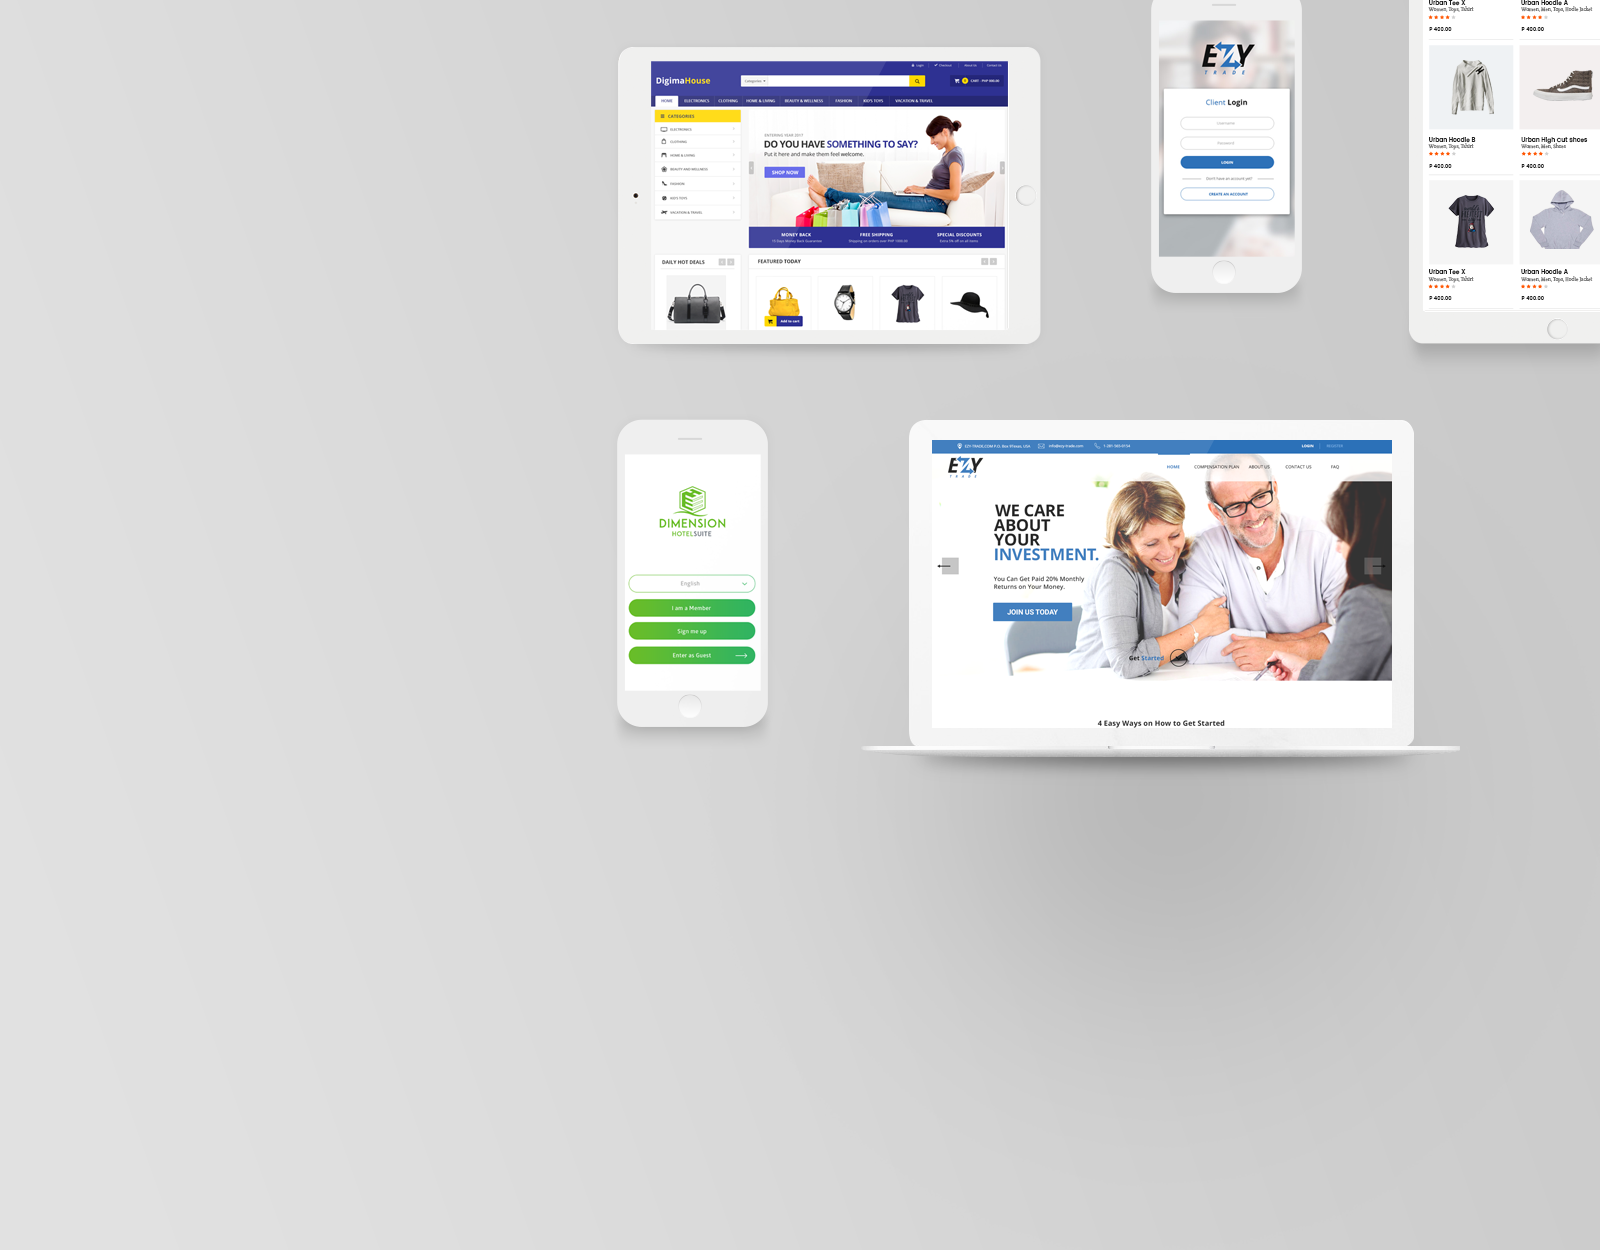
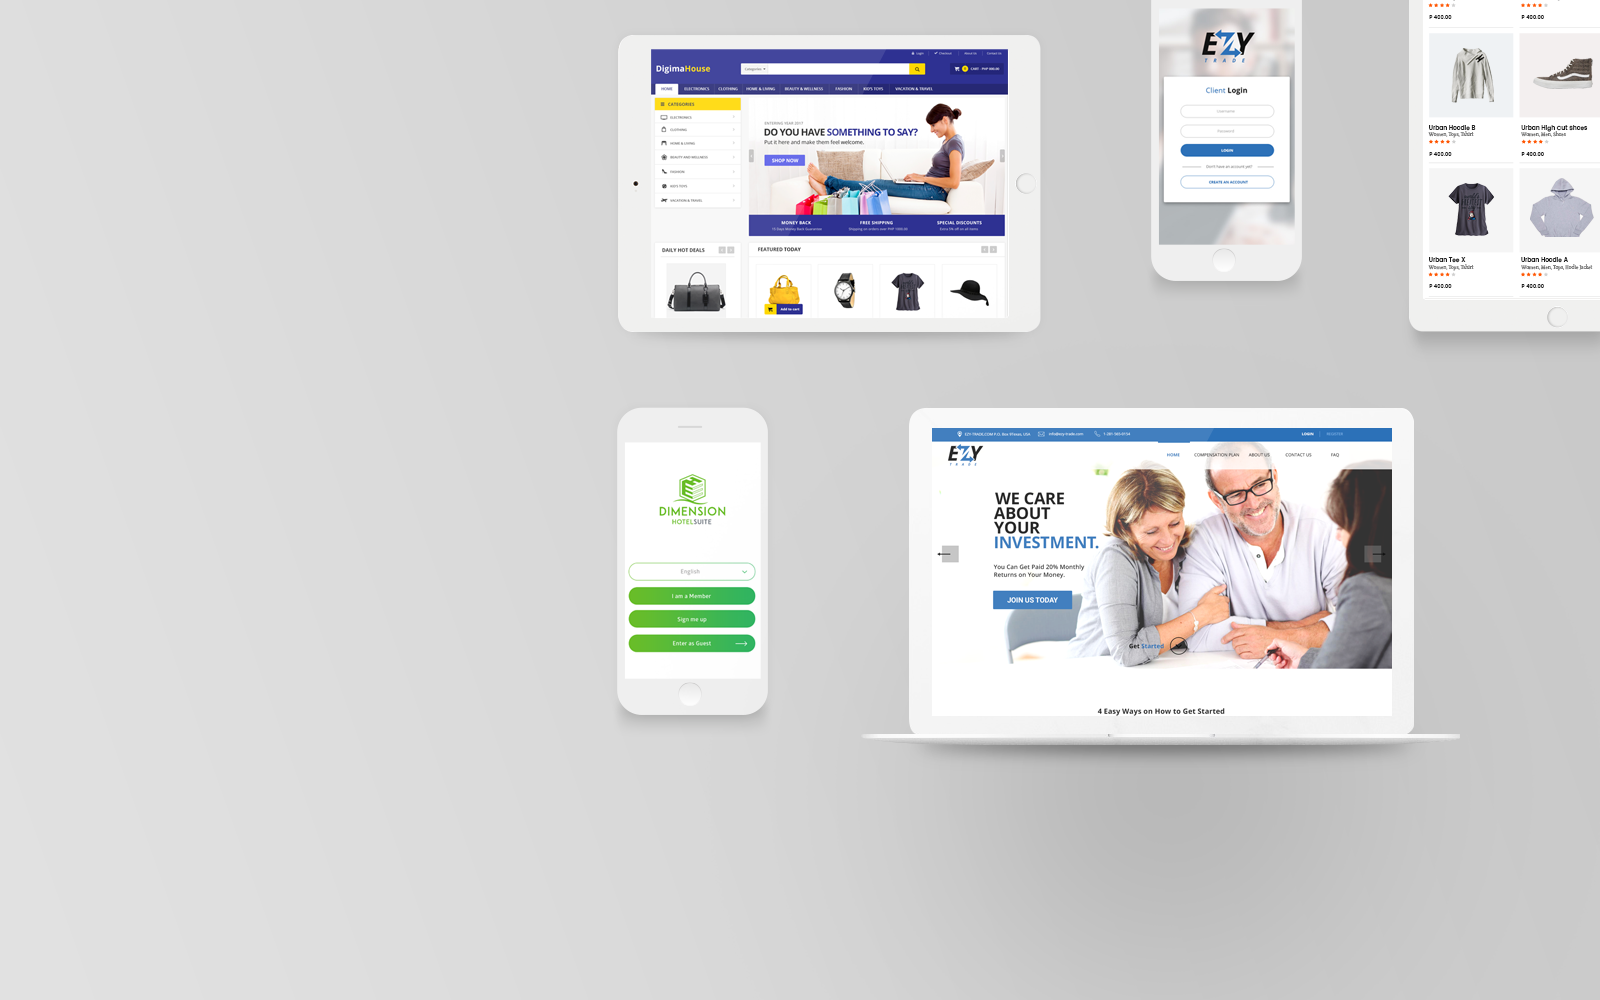
slider image fixed

diff --git a/public/themes/digimahouse_landingpage/views/home.blade.php b/public/themes/digimahouse_landingpage/views/home.blade.php
@@ -5,7 +5,7 @@
 
 	<!-- Parallax Background Image -->
 	<div class="slider">
-		<div class="fullscreen background parallax" style="background-image: url('/themes/{{ $shop_theme }}/img/img-slider.png');" data-img-width="1600" data-img-height="1250" data-diff="100">
+		<div class="fullscreen background parallax" style="background-image: url('/themes/{{ $shop_theme }}/img/img-slider.png');" data-img-width="1600" data-img-height="1000" data-diff="100">
 			<div class="container">
 			<div class="row clearfix">
 				<div class="caption-container">
